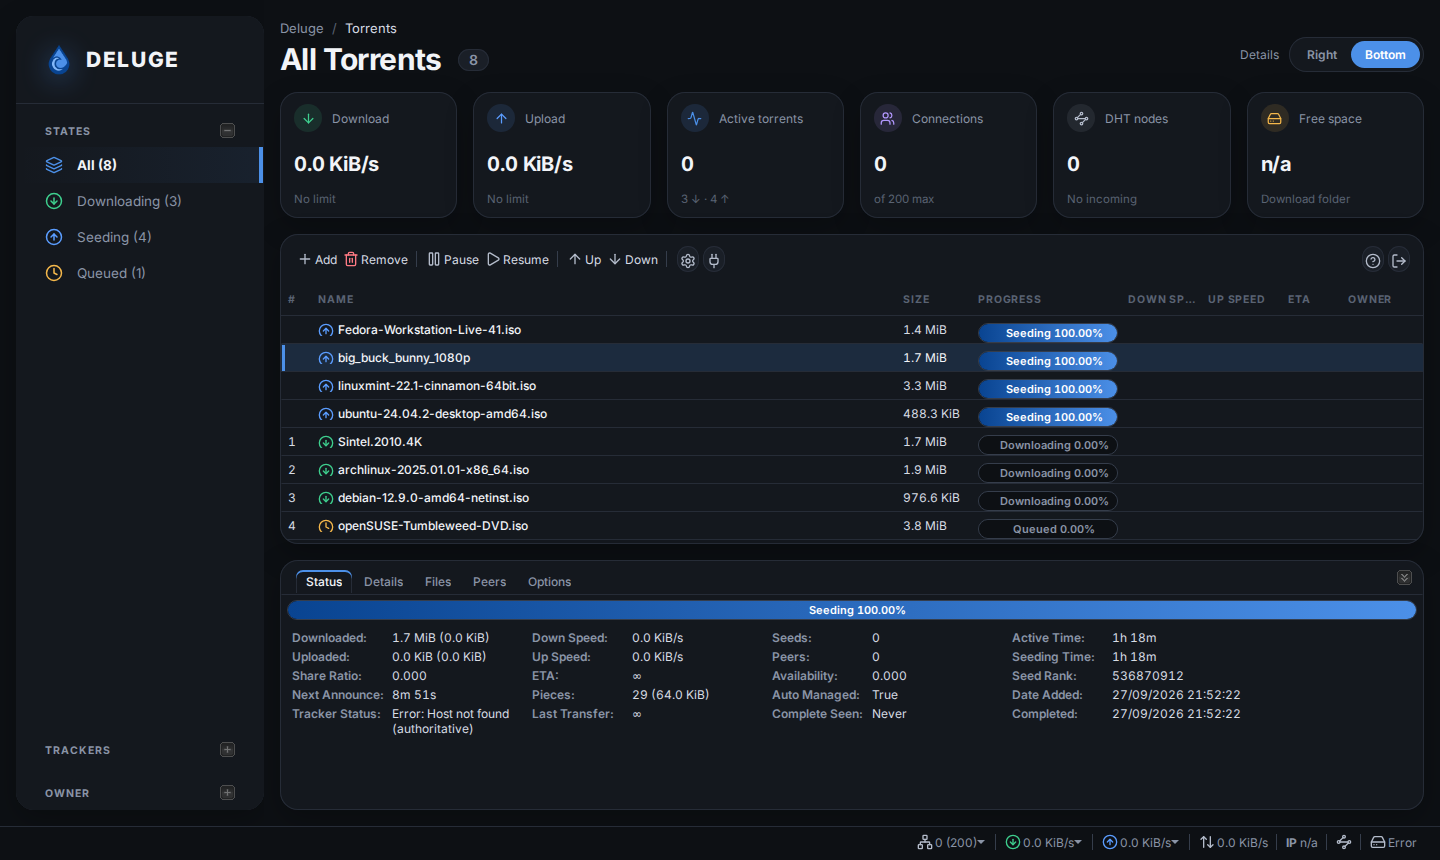
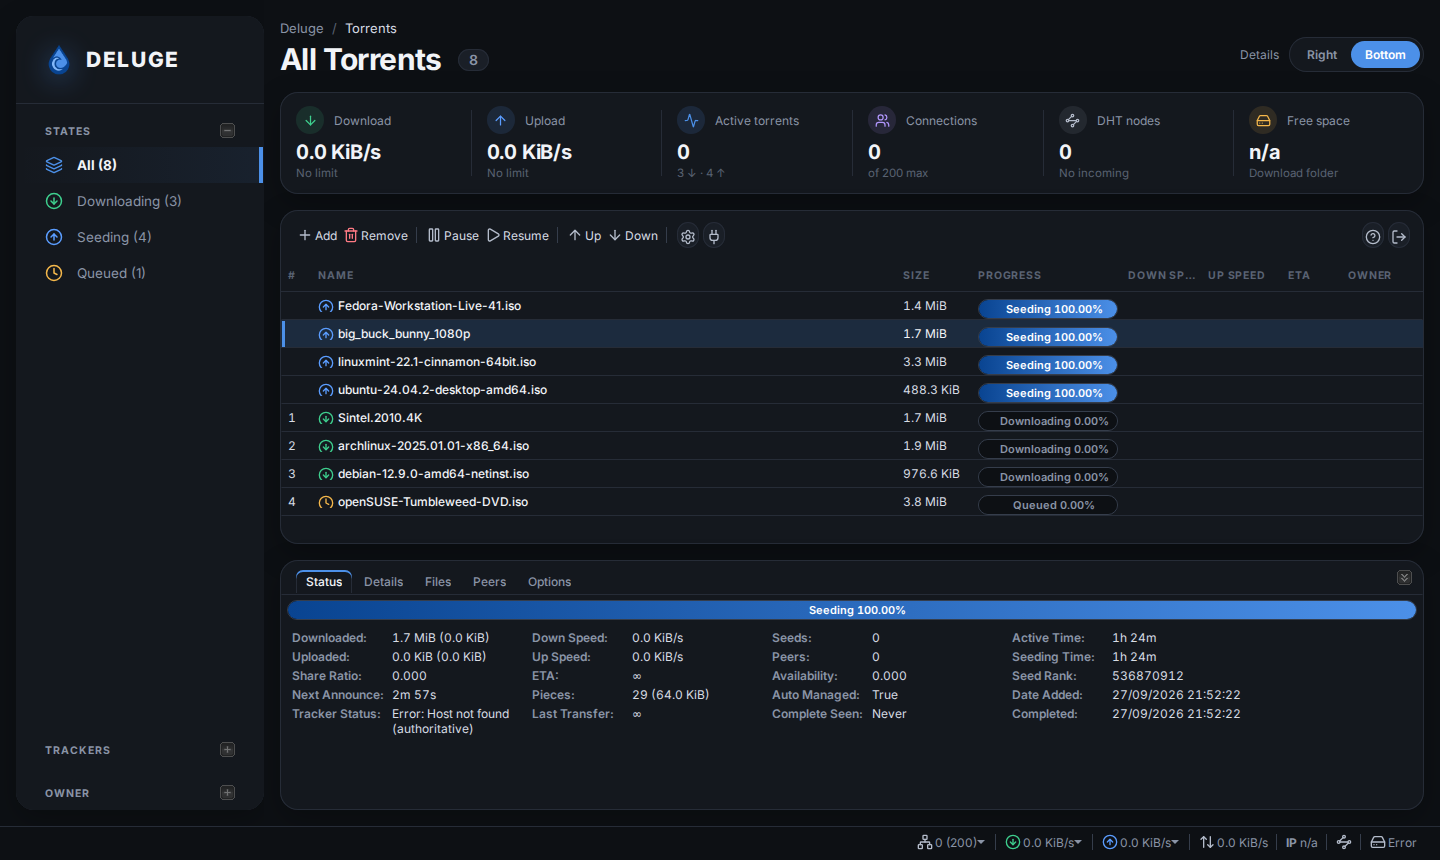
Dashboard: combine the stats into a single card
The six stats are now sections of one card, separated by inset
dividers (vertical within a row, horizontal between rows) instead of
six separate cards. Also drop the 14px row gap that the stacked style
inherited from the side-by-side layout.

Claude-Session: https://claude.ai/code/session_01VYsMZVuTL3SfVLzBaJKBSf

diff --git a/theme/darkhand/dashboard.css b/theme/darkhand/dashboard.css
@@ -249,24 +249,57 @@ html body.dh-dashboard,
 }
 
 /* ------------------------------------------------------------------------ */
-/* Stat cards                                                               */
+/* Stats card                                                               */
 /* ------------------------------------------------------------------------ */
 
+/* One card; each stat is a section of it */
 .dh-stats {
     display: grid;
     grid-template-columns: repeat(6, minmax(0, 1fr));
-    gap: 16px;
+    border-radius: var(--dh-card-radius);
+    background: var(--dh-bg-1);
+    box-shadow: inset 0 0 0 1px var(--dh-border), 0 10px 30px rgba(0, 0, 0, 0.25);
 }
 
 .dh-stat {
+    position: relative;
     display: flex;
     align-items: center;
     gap: 14px;
     min-width: 0;
-    padding: 14px 16px;
-    border-radius: var(--dh-card-radius);
-    background: var(--dh-bg-1);
-    box-shadow: inset 0 0 0 1px var(--dh-border), 0 10px 30px rgba(0, 0, 0, 0.2);
+    padding: 16px 18px;
+}
+
+/* Inset dividers: vertical between sections in a row, horizontal between
+   rows. The plugin sets dh-cols-N for the current column count. */
+.dh-stat::before,
+.dh-stat::after {
+    content: '';
+    position: absolute;
+    display: none;
+    background: var(--dh-border);
+}
+
+.dh-stat::before {
+    top: 18px;
+    bottom: 18px;
+    left: 0;
+    width: 1px;
+}
+
+.dh-stat::after {
+    top: 0;
+    left: 18px;
+    right: 18px;
+    height: 1px;
+}
+
+.dh-cols-6 .dh-stat:not(:nth-child(6n + 1))::before,
+.dh-cols-3 .dh-stat:not(:nth-child(3n + 1))::before,
+.dh-cols-2 .dh-stat:not(:nth-child(2n + 1))::before,
+.dh-cols-3 .dh-stat:nth-child(n + 4)::after,
+.dh-cols-2 .dh-stat:nth-child(n + 3)::after {
+    display: block;
 }
 
 .dh-stat-icon {
@@ -315,8 +348,9 @@ html body.dh-dashboard,
     display: grid;
     grid-template-columns: 28px minmax(0, 1fr);
     align-items: center;
-    column-gap: 10px;
-    padding: 12px 14px;
+    /* not the 14px gap used when the icon sits beside the text */
+    gap: 0 10px;
+    padding: 14px 16px;
 }
 
 .dh-stats-compact .dh-stat-text {

diff --git a/plugin/deluge_darkhand/data/darkhand.js b/plugin/deluge_darkhand/data/darkhand.js
@@ -82,7 +82,7 @@ Ext.ns('Deluge.plugins.darkhand');
         );
     }
 
-    // Stat cards shown under the page title. Values come from the regular
+    // Stats shown under the page title, as sections of one card. Values come from the regular
     // web.update_ui poll (data.stats and data.filters), so they cost nothing
     // extra.
     var STATS = [
@@ -189,15 +189,18 @@ Ext.ns('Deluge.plugins.darkhand');
         var grid = el.child('.dh-stats');
         if (!wrap || !grid) return;
 
-        // A stacked card needs about 160px for "1023.9 MiB/s"; a card with
+        // A stacked section needs about 160px for "1023.9 MiB/s"; one with
         // the icon beside the text needs about 230px.
         var width = grid.getWidth();
         var fits = function (n, min) {
-            return (width - (n - 1) * GAP) / n >= min;
+            return width / n >= min;
         };
         var cols = fits(6, 160) ? 6 : fits(3, 160) ? 3 : 2;
         if (state.mode === 'right') cols = Math.min(cols, 3);
         grid.setStyle('grid-template-columns', 'repeat(' + cols + ', minmax(0, 1fr))');
+        // The dividers between sections depend on the column count
+        grid.removeClass(['dh-cols-2', 'dh-cols-3', 'dh-cols-6']);
+        grid.addClass('dh-cols-' + cols);
         grid[fits(cols, 230) ? 'removeClass' : 'addClass']('dh-stats-compact');
 
         var height = wrap.getHeight();

diff --git a/README.md b/README.md
@@ -13,12 +13,12 @@ that installs and uninstalls it on Linux.
 
 This branch adds an optional **Darkhand plugin** that rebuilds the Web UI as a
 dashboard of floating cards: a navigation card with the torrent filters, a page
-header, live stat cards, the torrent list, and the torrent details.
+header, a live stats card, the torrent list, and the torrent details.
 
-The stat cards show download and upload speed (with their limits), active
+The stats card shows download and upload speed (with their limits), active
 torrents (downloading and seeding), connections, DHT nodes (and whether incoming
 connections work), and free space in the download folder. They refresh with
-Deluge's regular two-second update, so they add no extra requests. The details card sits either
+Deluge's regular two-second update, so it adds no extra requests. The details card sits either
 on the right, opening when you select a torrent and folding away when nothing
 is selected, or below the list. Switch between the two with the **Details**
 control in the header; your choice is remembered per browser.
